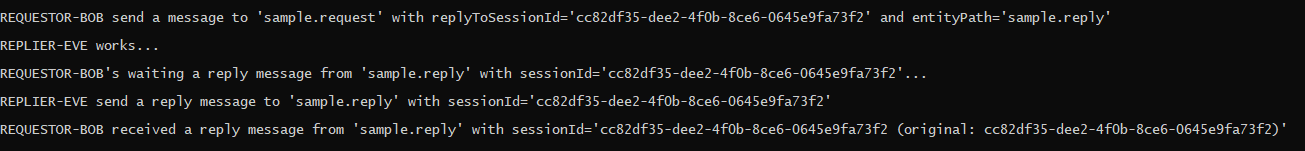
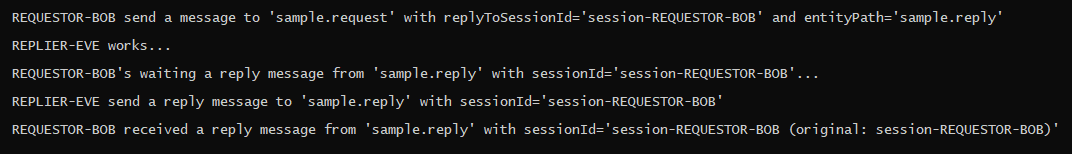
add details on the 'request-response' post (fr)

diff --git a/content/fr/posts/200322-request-response-pattern-with-azure-service-bus.md b/content/fr/posts/200322-request-response-pattern-with-azure-service-bus.md
@@ -16,41 +16,57 @@ categories:
 image: images/logo/azure.png
 ---
 
-
 Une des façons les plus simples et courantes d'utiliser les services de messagerie tels qu'Azure Service Bus est pour effectuer une communication unidirectionnel.
 {{< img src="/images/content/200322-request-response-pattern-with-azure-service-bus/0.png" position="center" title="source" caption="https://docs.microsoft.com/en-us/azure/service-bus-messaging/service-bus-messaging-overview" alt="request" width="600px">}}
 
-*Exemple: Bob en tant qu'envoyeur de message et Eve en tant que réceptionniste.*
-&nbsp;&nbsp;&nbsp;&nbsp;&nbsp;&nbsp;*1. Eve écoute la file d'attente Q1*
-&nbsp;&nbsp;&nbsp;&nbsp;&nbsp;&nbsp;*2. Bob envoie un message sur Q1*
-&nbsp;&nbsp;&nbsp;&nbsp;&nbsp;&nbsp;*3. Eve reçoit le message de Bob à partir Q1*
+_Exemple: Bob en tant qu'envoyeur de message et Eve en tant que réceptionniste._
+&nbsp;&nbsp;&nbsp;&nbsp;&nbsp;&nbsp;_1. Eve écoute la file d'attente Q1_
+&nbsp;&nbsp;&nbsp;&nbsp;&nbsp;&nbsp;_2. Bob envoie un message sur Q1_
+&nbsp;&nbsp;&nbsp;&nbsp;&nbsp;&nbsp;_3. Eve reçoit le message de Bob à partir Q1_
 
 {{< boxmd >}}
 **Mais comment Bob peut-il savoir que le traitement de Eve est terminé ?**
-*Ou plus généralement comment ces 2 services peuvent-ils communiquer de manière bidirectionnelle?*
+_Ou plus généralement comment ces 2 services peuvent-ils communiquer de manière bidirectionnelle?_
 {{< /boxmd >}}
 
-C'est là que le pattern **Request/Response (ou Request/Reply)** intervient. Ce pattern utilise un routage de message afin d'obtenir une communication bidirectionnel entre deux services.
+C'est là que le pattern **Request/Response (ou Request/Reply)** intervient. 
+
+## Le pattern Request/Response
+
+Ce pattern utilise un routage de message afin d'obtenir une communication bidirectionnel entre deux services.
 Fonctionnellement c'est très simple, l'envoyeur envoie un message sur une file d'attente et attend une réponse sur une autre file d'attente.
 {{< img src="/images/content/200322-request-response-pattern-with-azure-service-bus/1.png" position="center" title="source" caption="https://www.enterpriseintegrationpatterns.com/patterns/messaging/RequestReplyJmsExample.html" alt="request/response simple" width="400px">}}
 
 Il existe 4 types de routage principaux qui sont très bien détaillés ici : [https://docs.microsoft.com/en-us/azure/service-bus-messaging/service-bus-messages-payloads](https://docs.microsoft.com/en-us/azure/service-bus-messaging/service-bus-messages-payloads#message-routing-and-correlation)
 Dans la version "la plus simple" (**Request/Response simple**), **il n'existe aucune garantie que Bob reçoit son message de réponse**. En effet si un nouvel utilisateur nommé Alice écoute la même file d'attente, elle pourrait intercepter le message destiné à Bob.
 {{< img src="/images/content/200322-request-response-pattern-with-azure-service-bus/2.png" title="Concurrence entre Bob et Alice" position="center" alt="request/response simple" width="400px">}}
+Naturellement une idée pourrait venir en tête assez rapidement : Bob créé une file d'attente à lui et attend la réponse dessus. Une fois la réponse obtenue il supprime la file d'attente.
+C'est une bonne logique, **mais qui n'est pas à faire**, car:
 
-## Request/Response multiplexé
+- elle implique une gestion des services morts *(que faire si le processus crash sans avoir supprimé son service ? Doit-on supprimer le service avec les lettres mortes associées qui fournissent de précisieuses informations pour régler un potentiel bug ?...)*
+- elle n'est évidemment pas performante *(il faudra à chaque fois créer et supprimer la queue, dans des fréquences parfois élevées)*
+- elle introduit une pollution du Service Bus Namespace qui le rend difficile/impossible à analyser
 
-Pour garantir que Bob soit le seul à récupérer le message de réponse qui lui est destiné, nous allons utiliser **les sessions**.
-**Bob écoute et verrouille une session spécifique sur la file d'attente**, ainsi lui seul pourra écouter ses messages *(à l'image d'une sous file d'attente réservée à Bob)*.
+Enfin c'est une solution personnalisée, et le standard est toujours à privilégier. N'en existe-t-il pas un ?
+Justement si, grace au [protocole AMQP](https://docs.oasis-open.org/amqp/core/v1.0/os/amqp-core-messaging-v1.0-os.html) qui apporte une **notion de groupe**, retranscrite chez Microsoft sous le nom **session** qui résout très simplement et rapidement cette problématique.
+
+## Les sessions (groupe)
+
+Pour garantir que Bob soit le seul à récupérer le message de réponse qui lui est destiné, nous allons utiliser **les sessions** (ou plus précisement **les groupes du protocole AMQP**), qui pour faire simple apporte une multipléxage et ainsi plusieurs utilisateurs peuvent écouter la même file tout en ayant chacun leur propre groupe de message.
+**Bob écoute et verrouille une session spécifique sur la file d'attente**, ainsi lui seul pourra écouter ses messages _(à l'image d'une sous file d'attente réservée à Bob)_.
 Bob devra fournir des informations supplémentaires à son message afin que le réceptionneur (Eve) puisse envoyer correctement le message de réponse.
-Techniquement cela se traduit par deux propriétés :
+Techniquement cela se traduit par deux propriétés défini par le protocole AMQP 1.0 :
 
-- **[ReplyTo](https://docs.microsoft.com/en-us/dotnet/api/microsoft.azure.servicebus.message.replyto?view=azure-dotnet)**: chemin d'accès où Bob attend la réponse. Eve y enverra son message de réponse.
-- **[ReplyToSessionId](https://docs.microsoft.com/en-us/dotnet/api/microsoft.azure.servicebus.message.replytosessionid?view=azure-dotnet)**: l'id de la session écoutée par Bob. Eve assignera cette valeur à la propriété SessionId de son message de réponse.
+{{< notice warning >}}
+le nom des champs du protocole AMQP ne sont pas forcement les mêmes que ceux de l'API _(ex: **group-id** dans le protocole = **SessionId** dans l'API)_
+{{< /notice >}}
+
+- **[ReplyTo](https://docs.microsoft.com/en-us/dotnet/api/microsoft.azure.servicebus.message.replyto?view=azure-dotnet)** (**reply-to**): chemin d'accès où Bob attend la réponse. Eve y enverra son message de réponse.
+- **[ReplyToSessionId](https://docs.microsoft.com/en-us/dotnet/api/microsoft.azure.servicebus.message.replytosessionid?view=azure-dotnet)** (**reply-to-group-id**): l'id de la session écoutée par Bob. Eve assignera cette valeur à la propriété **SessionId** (**group-id**) de son message de réponse.
 
 ## Exemple
 
-L'exemple sera réalisé avec [Microsoft.Azure.ServiceBus](https://www.nuget.org/packages/Microsoft.Azure.ServiceBus) et de deux file d'attente *(la logique reste la même avec les rubriques)*.
+L'exemple sera réalisé avec [Microsoft.Azure.ServiceBus](https://www.nuget.org/packages/Microsoft.Azure.ServiceBus) et de deux file d'attente _(la logique reste la même avec les rubriques)_.
 **Techniquement il est indispensable que la file d'attente de réponse accepte les sessions.**
 Cela peut se fait via le portail Azure.
 {{< img src="/images/content/200322-request-response-pattern-with-azure-service-bus/3.png" position="center" title="source" caption="https://docs.microsoft.com/en-us/azure/service-bus-messaging/message-sessions" alt="activate session" >}}
@@ -75,10 +91,10 @@ static async Task Main()
   await Task.WhenAll(CreateQueueAsync(connectionString, requestQueueName, false), CreateQueueAsync(connectionString, replyQueueName, true));
 }
 
+// /!\ IT'S JUST FOR DEMO
 static async Task CreateQueueAsync(string connectionString, string queueName, bool requiresSession)
 {
   var managementClient = new ManagementClient(connectionString);
-  //it's just for the demo
   if (await managementClient.QueueExistsAsync(queueName))
   {
       await managementClient.DeleteQueueAsync(queueName);
@@ -106,27 +122,37 @@ public static class SampleThreadFactory
   {
     return new Thread(async () =>
     {
+      /*** send message ***/
       var messageSender = new MessageSender(connectionString, requestQueueName);
-      var sessionId = Guid.NewGuid().ToString();
+      var sessionId = "session-" + threadId;
 
       var message = new Message
       {
-        MessageId = threadId,
-        ReplyTo = new ServiceBusConnectionStringBuilder(connectionString) { EntityPath = replyQueueName }.ToString(),
-        ReplyToSessionId = sessionId,
-        TimeToLive = TimeSpan.FromMinutes(2)
+          MessageId = threadId,
+          ReplyTo = new ServiceBusConnectionStringBuilder(connectionString) { EntityPath = replyQueueName }.ToString(),
+          ReplyToSessionId = sessionId,
+          TimeToLive = TimeSpan.FromMinutes(2)
       };
 
       Console.WriteLine($"{threadId} send a message to '{requestQueueName}' with replyToSessionId='{message.ReplyToSessionId}' and entityPath='{replyQueueName}'\n");
       await messageSender.SendAsync(message);
+      await messageSender.CloseAsync();
+      /*** send message ***/
 
+      /*** wait response ***/
       SessionClient sessionClient = new SessionClient(connectionString, replyQueueName);
       var session = await sessionClient.AcceptMessageSessionAsync(sessionId);
 
       Console.WriteLine($"{threadId}'s waiting a reply message from '{replyQueueName}' with sessionId='{sessionId}'...\n");
-      Message sessionMessage = await session.ReceiveAsync();
+
+      Message sessionMessage = await session.ReceiveAsync(TimeSpan.FromMinutes(2));
 
       Console.WriteLine($"{threadId} received a reply message from '{replyQueueName}' with sessionId='{sessionMessage.SessionId} (original: {sessionId})'\n");
+
+      await session.CompleteAsync(sessionMessage.SystemProperties.LockToken);
+      await session.CloseAsync();
+      await sessionClient.CloseAsync();
+      /*** wait response ***/
     });
   }
 }
@@ -136,7 +162,7 @@ public static class SampleThreadFactory
 
 Eve écoute la file d'attente sur laquelle Bob envoie ses messages.
 Une fois qu'un message est intercepté, elle envoie un message de réponse sur le chemin d'accès défini par la propriété **ReplyTo**.
-Le message envoyé contient la propriété **SessionId** définie à partir la propriété **ReplyToSessionId** du message intercepté *(et pour le suivi ainsi qu'une standardisation, il est fortement recommandé de définir la propriété **CorrelationId** avec l'id du message réceptionné)*.
+Le message envoyé contient la propriété **SessionId** définie à partir la propriété **ReplyToSessionId** du message intercepté _(et pour le suivi ainsi qu'une standardisation, il est fortement recommandé de définir la propriété **CorrelationId** avec l'id du message réceptionné)_.
 
 ```c#
 public static class SampleThreadFactory
@@ -197,7 +223,6 @@ static async Task Main()
 
 ![result-single](/images/content/200322-request-response-pattern-with-azure-service-bus/4.png)
 
-
 **Et aucun problème avec plusieurs envoyeur, chacun reçoit le message de réponse qui lui est destiné**.
 
 ![result-multiple](/images/content/200322-request-response-pattern-with-azure-service-bus/5.png)
@@ -206,14 +231,15 @@ static async Task Main()
 
 ## Sources
 
-### Repository:
+### Repository
 
 - [https://github.com/Golapadeog/sample-azure-service-bus-request-response](https://github.com/Golapadeog/sample-azure-service-bus-request-response)
 
-### Documentation:
+### Documentation
 
 - [https://www.enterpriseintegrationpatterns.com/patterns/messaging/RequestReplyJmsExample.html](https://www.enterpriseintegrationpatterns.com/patterns/messaging/RequestReplyJmsExample.html)
 - [https://docs.microsoft.com/en-us/azure/service-bus-messaging/service-bus-amqp-request-response](https://docs.microsoft.com/en-us/azure/service-bus-messaging/service-bus-amqp-request-response)
 - [https://docs.microsoft.com/en-us/azure/service-bus-messaging/service-bus-messages-payloads](https://docs.microsoft.com/en-us/azure/service-bus-messaging/service-bus-messages-payloads)
 - [https://docs.microsoft.com/en-us/azure/service-bus-messaging/message-sessions](https://docs.microsoft.com/en-us/azure/service-bus-messaging/message-sessions)
 - [https://en.wikipedia.org/wiki/Request%E2%80%93response](https://en.wikipedia.org/wiki/Request%E2%80%93response)
+- [https://docs.oasis-open.org/amqp/core/v1.0/os/amqp-core-messaging-v1.0-os.html](https://docs.oasis-open.org/amqp/core/v1.0/os/amqp-core-messaging-v1.0-os.html)
